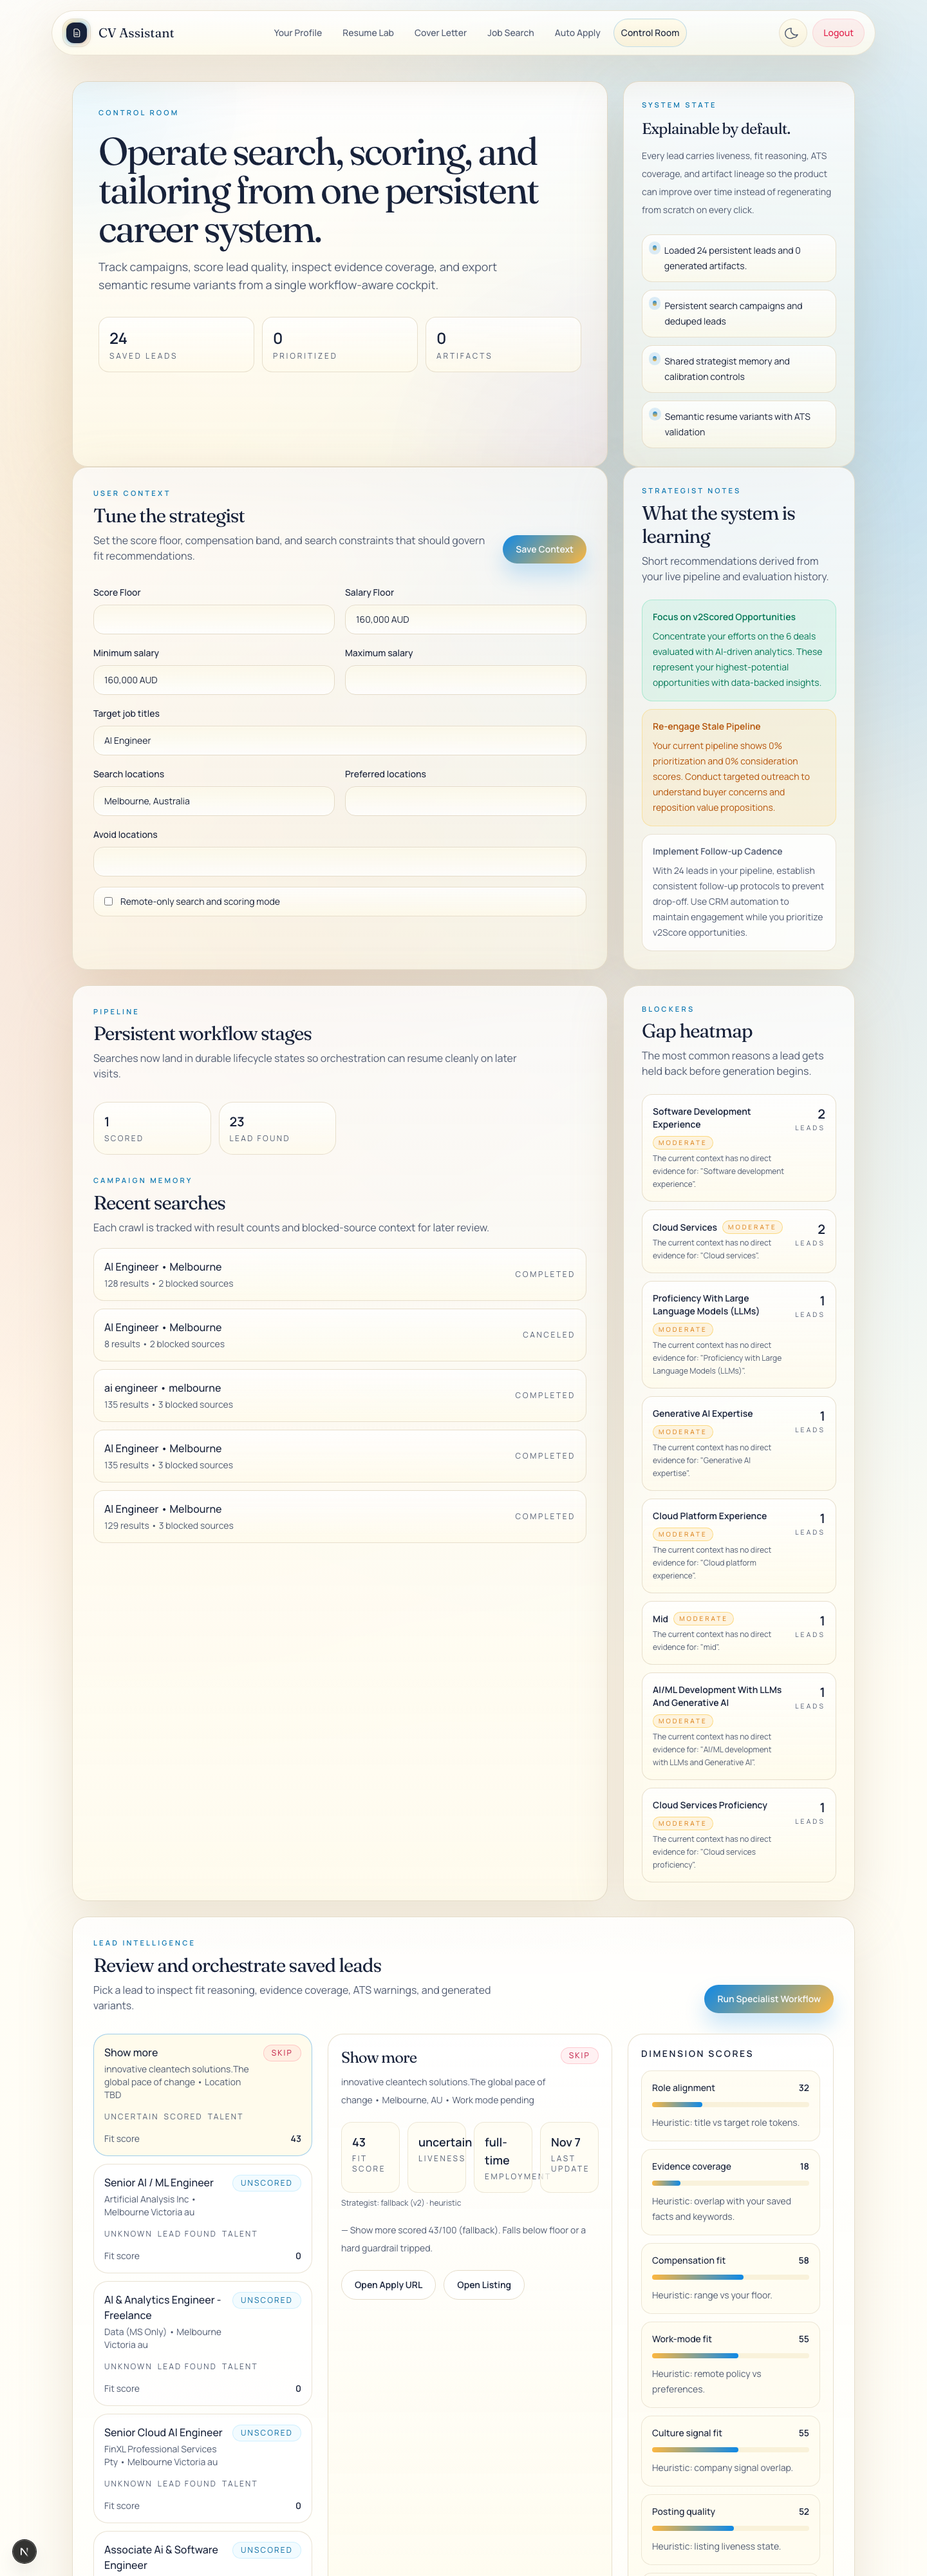
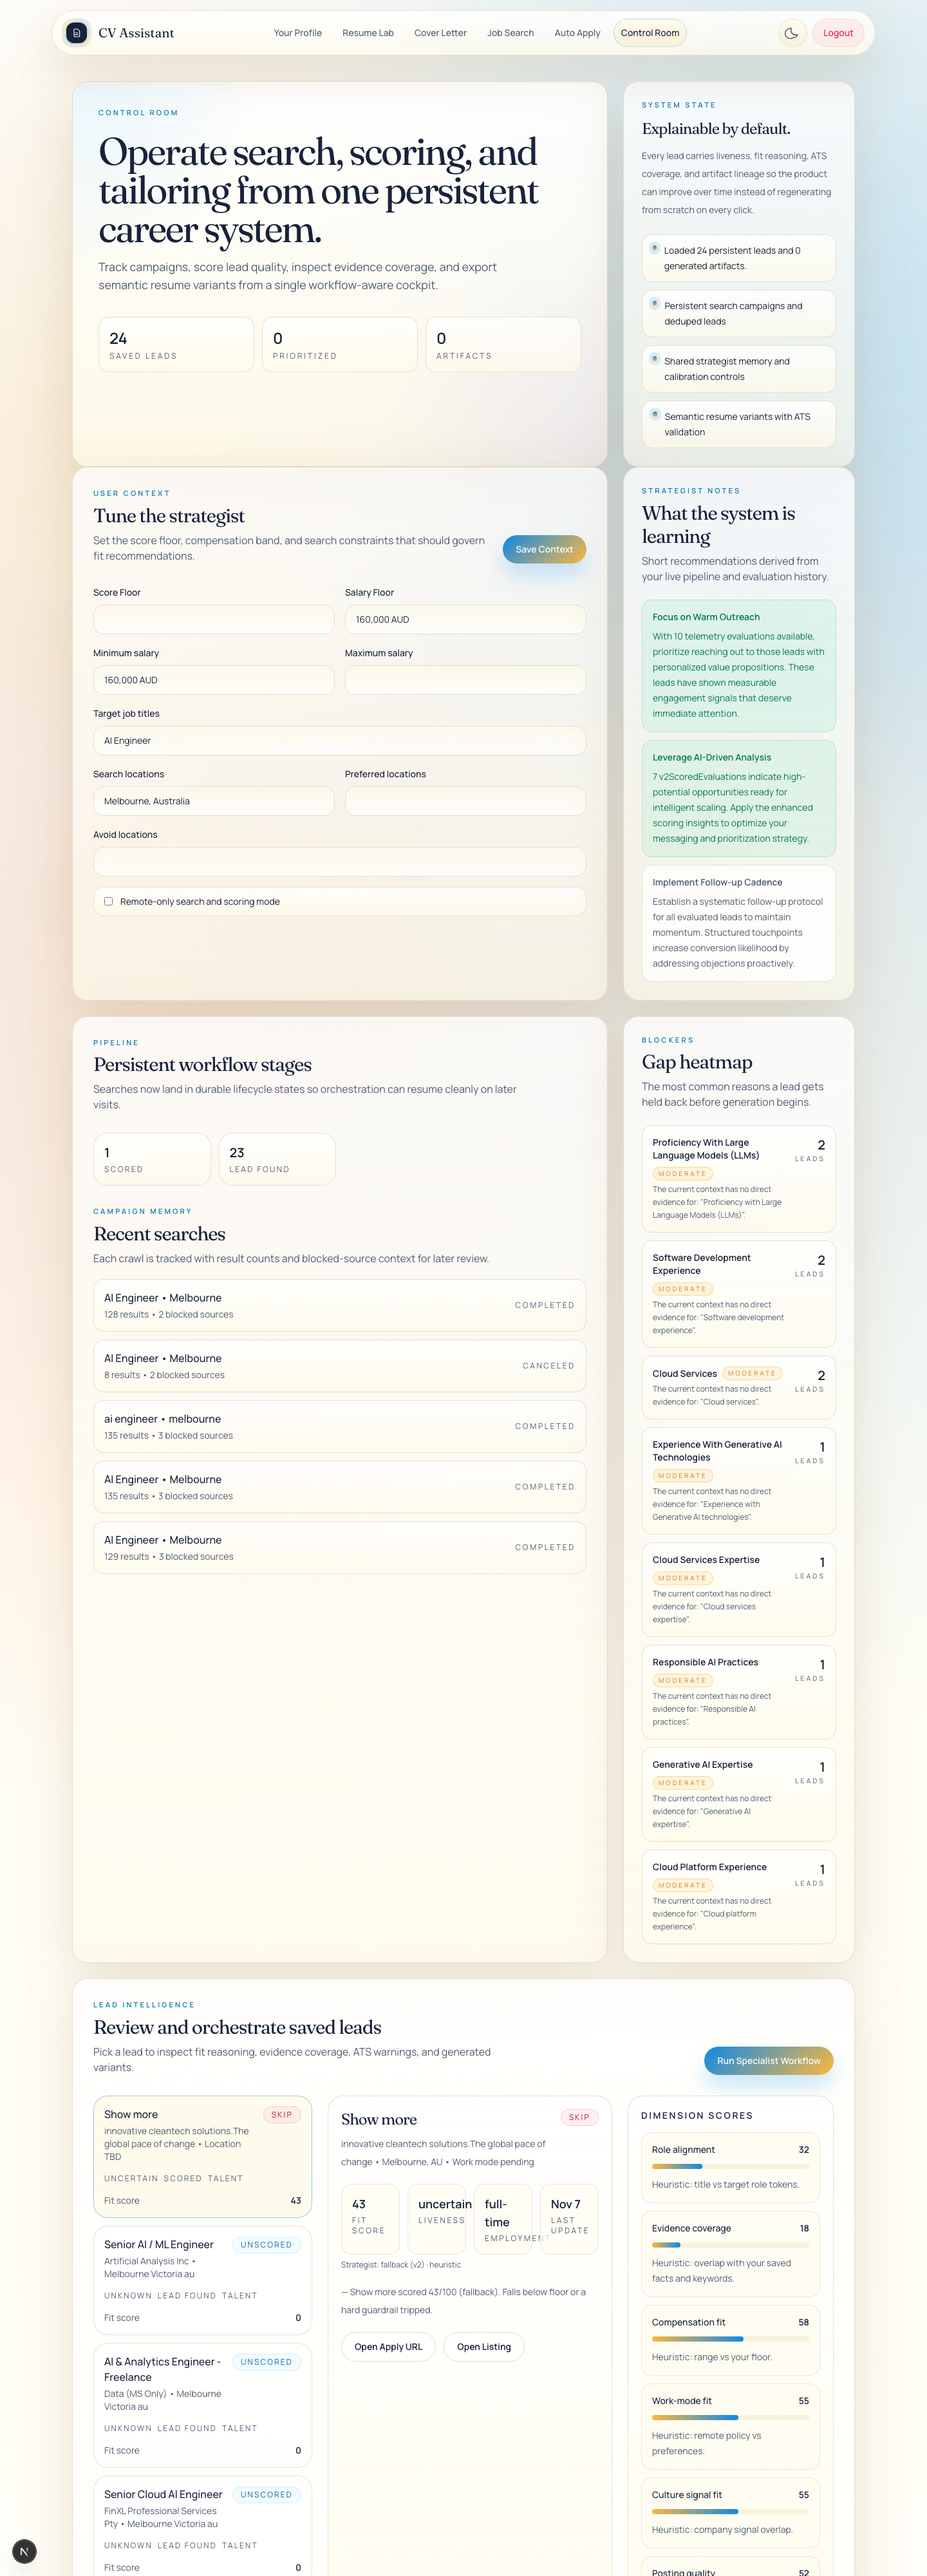
Letters: contact lines no longer trip sign-off checks, split text walls, repair title-as-employment, drop Subject lines and duplicate greetings
Unit tests: 50 pass. Promptfoo varies 1/3 to 3/3 run to run; the small draft model still invents plausible detail.

diff --git a/cv-assistant/src/lib/cover-letter-service.ts b/cv-assistant/src/lib/cover-letter-service.ts
@@ -150,9 +150,12 @@ export function findUnsupportedClaims(text: string, profile?: Partial<Profile> |
 /** Structural defects that make a letter unsendable regardless of its claims. */
 export function findLetterDefects(text: string, candidateName?: string, company?: string, title?: string): string[] {
   const defects: string[] = [];
+  // Contact details under the name are by design: they are neither a sign-off nor a sentence fragment.
+  const contactLine = /^(?:\+?[\d ()-]{8,}\s*\|.*|.*\|.*@.*|[\w.+-]+@[\w-]+\.[\w.]+(?:\s*\|.*)?|https?:\/\/\S+.*)$/i;
+  const visible = text.split(/\n/).filter((line) => !contactLine.test(line.trim())).join("\n");
   if (WORDS(text) < TARGET_MIN_WORDS) defects.push("too short");
   if (text.split(/\n{2,}/).filter((part) => WORDS(part) > 25).length < 2) defects.push("is one block of text; use short paragraphs");
-  if (text.split(/\n+/).some((line) => /^[a-z0-9]/.test(line.trim()) && WORDS(line) > 3)) defects.push("contains a broken sentence fragment");
+  if (visible.split(/\n+/).some((line) => /^[a-z0-9]/.test(line.trim()) && WORDS(line) > 3)) defects.push("contains a broken sentence fragment");
   if (/\b(?:essential|key|minimum|stated|preferred|required) (?:requirement|qualification)s?\b|\bmeeting the [^.]{0,60}requirement|\b(?:matching|meeting|fulfilling|addressing|directly addressing|directly aligning with) your (?:needs?|requirements?)\b/i.test(text)) defects.push("talks about meeting the posting's requirements instead of showing experience");
   if (title && new RegExp(`${title.replace(/[.*+?^${}()|[\]\\]/g, "\\$&")}[^.\\n]{0,40} - I `, "i").test(text.replace(/^[^\n]*\n+/, "").slice(0, 600))) defects.push("contains a garbled run-on title opening");
   if (/(^|\n)\s*(Let me know|Feel free|Happy to|Let's discuss|Thank you for (your|considering))/i.test(text)) defects.push("ends with a chat-style line instead of a closing sentence");
@@ -185,7 +188,7 @@ export function findLetterDefects(text: string, candidateName?: string, company?
   if (/^\s*Dear[^\n]*\n+\s*In this role\b/i.test(text)) defects.push("opens with 'In this role' instead of naming the role and company");
   if (/\bcandidate\s+[A-Z][a-z]+/.test(text) || (name && new RegExp(`candidate\\s+${name.replace(/[.*+?^${}()|[\]\\]/g, "\\$&")}`, "i").test(text))) defects.push("refers to the applicant as 'candidate'");
   if (/(^|\n)\s*(com|org|net|au)(\/\S+)?\s*$/i.test(text.trim())) defects.push("truncated link");
-  const trimmed = text.trim();
+  const trimmed = visible.trim();
   if (!/^(dear|hello|hi|to the|greetings)\b/i.test(trimmed)) defects.push("does not open with a greeting such as 'Dear Hiring Manager,'");
   const lastLine = trimmed.split(/\n+/).pop() || "";
   if (!/^(sincerely|regards|kind regards|best regards|yours|thank you)\b/i.test(lastLine) && lastLine.split(/\s+/).length > 6) defects.push("has no sign-off with the applicant's name");
@@ -213,6 +216,9 @@ const name_ = (value?: string) => (value || "").trim();
 /** Deterministic fixes for slips a retry cannot be trusted to remove: greeting, sign-off, and "My CV shows" filler. */
 export function repairLetterStructure(text: string, candidateName?: string, company?: string, title?: string): string {
   let fixed = text.trim().replace(/\bMy (?:CV|resume|profile) (?:shows|demonstrates|indicates) (?:that )?I\b/gi, "I");
+  // Email-style "Subject:" lines and a repeated greeting are not part of the letter.
+  fixed = fixed.replace(/^[ \t]*Subject:[^\n]*\n+/gim, "");
+  fixed = fixed.replace(/^(Dear [^\n]{2,60},)[ \t]*\n+(?:Dear [^\n]{2,60},[ \t]*\n+)+/i, "$1\n\n");
   // A greeting run into the first sentence ("Dear Hiring Manager, I am writing...") gets its own line.
   fixed = fixed.replace(/^(Dear [^,\n]{2,60},)[ \t]+(?=[A-Z])/, "$1\n\n");
   // "As Senior Engineer at Acme, I built X" claims the posting's job as past experience: keep the work, drop the borrowed title.
@@ -226,6 +232,11 @@ export function repairLetterStructure(text: string, candidateName?: string, comp
   }
   // "In the same organization, I built X" would credit a separate project to an employer.
   fixed = fixed.replace(/\bIn the same (?:organi[sz]ation|company|team|role),?\s+I\b/gi, "I also");
+  // "Senior Software Engineer - AI Platform at Xero, I designed ..." claims the posting's job as the applicant's own: keep the work.
+  if (company) {
+    const escCo = company.replace(/[.*+?^${}()|[\]\\]/g, "\\$&");
+    fixed = fixed.replace(new RegExp(`(^|\\n\\n|[.!?]\\s+)((?:[A-Z][\\w/&]*[ ,\\u2013-]+){1,8})at ${escCo},\\s+(?=I\\b)`, "g"), (match, lead, phrase) => (/\b(?:Engineer|Developer|Scientist|Architect|Manager|Lead|Analyst)\b/.test(phrase) && !/^(?:As|At|In)\b/.test(phrase.trim()) ? lead : match));
+  }
   // "I at Xero: I designed ..." is a stray label: keep the sentence, drop the label.
   fixed = fixed.replace(/\bI at [A-Z][\w&.-]*(?: [A-Z][\w&.-]*)?:\s+I\b/g, "I");
   // A company name the model garbled ("Airwalexecss" for "Airwallex") is put back, when the stem is unmistakable.
@@ -278,6 +289,20 @@ export function repairLetterStructure(text: string, candidateName?: string, comp
     if (/^\s*[\d+(]|@/.test(block.trim()) && block.trim().split(/\s+/).length < 12) return block;
     return block.split(/(?<=[.!?])\s+(?=[A-Z])/).filter((sentence) => !contact.test(sentence)).join(" ");
   }).filter((block) => block.trim()).join("\n\n");
+  // One wall of text is split at sentence boundaries into paragraphs of about 55-80 words.
+  fixed = fixed.split(/\n{2,}/).map((block) => {
+    if (WORDS(block) <= 110 || /^\s*(dear|sincerely|regards)\b/i.test(block)) return block;
+    const sentences = block.split(/(?<=[.!?])\s+(?=[A-Z])/);
+    if (sentences.length < 3) return block;
+    const chunks: string[] = [];
+    let current: string[] = [];
+    for (const sentence of sentences) {
+      current.push(sentence);
+      if (WORDS(current.join(" ")) >= 55) { chunks.push(current.join(" ")); current = []; }
+    }
+    if (current.length) { if (chunks.length && WORDS(current.join(" ")) < 25) chunks[chunks.length - 1] += ` ${current.join(" ")}`; else chunks.push(current.join(" ")); }
+    return chunks.join("\n\n");
+  }).join("\n\n");
   // A letter should end on a closing sentence before the sign-off.
   const bodyParagraphs = fixed.split(/\n{2,}/);
   const bodyOnly = bodyParagraphs.filter((block) => WORDS(block) > 3 && !/^(sincerely|regards|kind regards|best regards)/i.test(block.trim()) && !contact.test(block) && block.trim().toLowerCase() !== name_(candidateName).toLowerCase());

diff --git a/cv-assistant/tests/auto-apply/run-tests.ts b/cv-assistant/tests/auto-apply/run-tests.ts
@@ -18,6 +18,7 @@ import {
   type CandidateProfile,
 } from "../../src/lib/auto-apply/questions";
 import { isSubmitRequest } from "../../src/lib/auto-apply/submit-guard";
+const WORDS_ = (text: string) => text.split(/\s+/).filter(Boolean).length;
 import { findLetterDefects, findUnsupportedClaims, repairLetterStructure, stripUnsupportedSentences } from "../../src/lib/cover-letter-service";
 import { cleanTitle } from "../../src/lib/auto-apply/engine";
 import { crawlJobDescription } from "../../src/lib/auto-apply/jd";
@@ -575,6 +576,16 @@ const tests: TestCase[] = [
       assert.ok(garbled.includes("at Airwallex.") && !garbled.includes("Airwalexecss"), garbled);
       assert.ok(findLetterDefects(`Dear Hiring Manager,\n\nI am applying for the Engineer role at Acme. This is directly addressing your need for reliability. ${"I built agent platforms, shipped them, and measured results. ".repeat(14)}\n\n${"I built agent platforms, shipped them, and measured results. ".repeat(14)}\n\nSincerely,\nDang Khoa Le`, "Dang Khoa Le", "Acme", "Engineer").some((d) => d.includes("requirements")));
       assert.ok(findLetterDefects(`Dear Hiring Manager,\n\nI am applying for the Staff Software Engineer, AI Tooling role at Airwallex. Staff Software Engineer, AI Tooling position at Airwallex, demonstrated by leading work. ${"I built agent platforms, shipped them, and measured results. ".repeat(14)}\n\n${"I built agent platforms, shipped them, and measured results. ".repeat(14)}\n\nSincerely,\nDang Khoa Le`, "Dang Khoa Le", "Airwallex", "Staff Software Engineer, AI Tooling").some((d) => d.includes("bare sentence")));
+      const wall = "I built agent platforms, shipped them, and measured results across teams. ".repeat(12).trim();
+      const split = repairLetterStructure(`Dear Hiring Manager,\n\nI am applying for the Engineer role at Acme. ${wall}\n\nSincerely,\nDang Khoa Le`, "Dang Khoa Le", "Acme", "Engineer");
+      assert.ok(split.split(/\n{2,}/).filter((b) => WORDS_(b) > 25).length >= 2, split);
+      const titled = repairLetterStructure("Dear Hiring Manager,\n\nI am applying for the Senior Engineer - AI Platform role at Xero.\n\nSenior Software Engineer - AI Platform at Xero, I designed and delivered a platform.\n\nSincerely,\nDang Khoa Le", "Dang Khoa Le", "Xero", "Senior Engineer - AI Platform");
+      assert.ok(titled.includes("\n\nI designed and delivered a platform.") && !titled.includes("Software Engineer - AI Platform at Xero, I"), titled);
+      const withContact = `Dear Hiring Manager,\n\nI am applying for the Engineer role at Acme. ${"I built agent platforms, shipped them, and measured results. ".repeat(14)}\n\n${"I built agent platforms, shipped them, and measured results. ".repeat(14)}\n\nSincerely,\nDang Khoa Le\n0450445373 | liam@example.com | https://example.com/me`;
+      const contactDefects = findLetterDefects(withContact, "Dang Khoa Le", "Acme", "Engineer");
+      assert.ok(!contactDefects.some((d) => d.includes("sign-off") || d.includes("fragment")), contactDefects.join("; "));
+      const subject = repairLetterStructure("Dear Hiring Manager,\n\nSubject: AI Engineer - Alex Tester\n\nDear Hiring Manager,\n\nI am applying for the AI Engineer role at Acme.", "Alex Tester", "Acme", "AI Engineer");
+      assert.ok(!/Subject:/.test(subject) && (subject.match(/Dear Hiring Manager,/g) || []).length === 1, subject);
       assert.ok(repairLetterStructure("Dear Recruiter,\n\nI am applying for the Engineer role at Acme.", "Dang Khoa Le", "Acme", "Engineer").startsWith("Dear Hiring Manager,\n\n"));
       assert.ok(repairLetterStructure("Dear Hiring Team\n\nI am applying for the Engineer role at Acme.", "Dang Khoa Le", "Acme", "Engineer").startsWith("Dear Hiring Manager,\n\n"));
     },

diff --git a/cv-assistant/docs/auto-apply-quality-metrics.md b/cv-assistant/docs/auto-apply-quality-metrics.md
@@ -39,6 +39,10 @@ Best-of-3 drafts were tried and reverted. Promptfoo went 2/3 then 3/3 with it, b
 
 Latest live run (best-of-3 reverted, guards kept), 10 letters, 94-121 s each: all have a greeting; 5 of 10 are clean on read. Defects seen: a garbled company name ("Airwalexecss", 281e), "I at Xero: I designed ..." (2856), a run-on title sentence (281f), requirement talk ("matching your requirement for ...", 284b), posting echoes and a contact line in the body (2861, 281e), and a 148-word letter with invented mentoring (2823, flagged short). After this run these were addressed with tested deterministic repairs and detectors: stray "I at <Company>:" label, garbled company name restored, run-on title sentence, "matching/addressing your need/requirement" talk. Not yet re-read live.
 
+Final live run on the pushed code (2649022), 10 letters, 57-128 s each: 5-6 of 10 read as clean (2840, 282b, 2856, 2826, 281e, and 2861 apart from one posting echo). Defects found: contact lines and a missing sign-off flagged on 284b (a detector false alarm: contact details under the name are by design), single-block letters (281f, 2823), the posting's title used as employment (2835, 281f), "systems programming" and mentoring claims echoing the posting (281f, 2835), and two letters of 158-167 words that were correctly flagged short. After that run these were handled with tested changes: contact lines no longer trip the sign-off or fragment checks, walls of text are split into paragraphs, "<Title> at <Company>, I ..." is repaired to "I ...", and "Subject:" lines and repeated greetings are removed. Those changes are covered by unit tests (50 pass) but not yet re-read on a live run.
+
+Promptfoo variance after these changes: 3/3, then 1/3 on the next run (a "Subject:" line with a duplicate greeting, "I am excited", and padding with invented elaboration such as "improving customer satisfaction"). The small first-draft model still invents plausible detail that no deterministic guard catches, so letters remain drafts that the applicant must review. This is the main open quality risk.
+
 Still open: Contoso's letter says its triage bot "demonstrates my ability to build and own security tooling", a stretch copied from the posting. The model-based claim check warns about it, but the deterministic guard does not.
 
 Thin-evidence policy (Contoso Cloud, whose CV items cover only a few lines): an honest letter is short. Padding it to 170 words made the model invent duties ("mentoring junior engineers", "access controls, encryption protocols, audit trails"), which no guard caught, and that run scored 3/3 only because the padding passed. The rebuild was reverted. The app now adds "the letter is short because your profile gives little to draw on" to the review warnings, and the eval accepts 100-169 words only when that warning is present.

diff --git a/cv-assistant/docs/verification-run.md b/cv-assistant/docs/verification-run.md
@@ -29,7 +29,7 @@ This page records what was actually run against the live app and the eval suite 
 | Auto Apply: read-only | Brief, Matches, Review and Apply steps viewed on the existing account (96 ranked roles, 10 prepared) | Pass for viewing. Nothing approved, edited or submitted. |
 | Auto Apply: prepare | Not run | The prepare step would overwrite or add to the existing applications on this account, so it was not run. The behaviour is documented from code. |
 | Control Room: overview and lead | Overview, one lead detail opened | Pass for viewing. The specialist workflow was not run. |
-| Control Room: specialist workflow | Not run | It writes evaluations to the account. Documented from code. |
+| Control Room: specialist workflow | Run once on one lead (`POST /api/control-room/leads/<id>/orchestrate`, 200 in about 5 s) | Pass with a caveat. The lead ended `scored`, fit 43, recommendation `skip`, `analysisSource: fallback`, `model: heuristic`. The LLM strategist did not produce the result and the response does not record why. The lead is a Talent.com record whose title is "Show more" and whose company is empty, so the result is not meaningful. Each run appends events and an evaluation to the lead. |
 | Promptfoo cover-letter eval | `npm run eval:letters`, 3 cases, live model calls | **Fail: 1 of 3 passed.** See below. |
 | Live browser scripts | Not run | They fill real employer forms (Greenhouse, Ashby and Lever) with name and contact details. That needs explicit permission from the user first. Not requested yet. |
 
